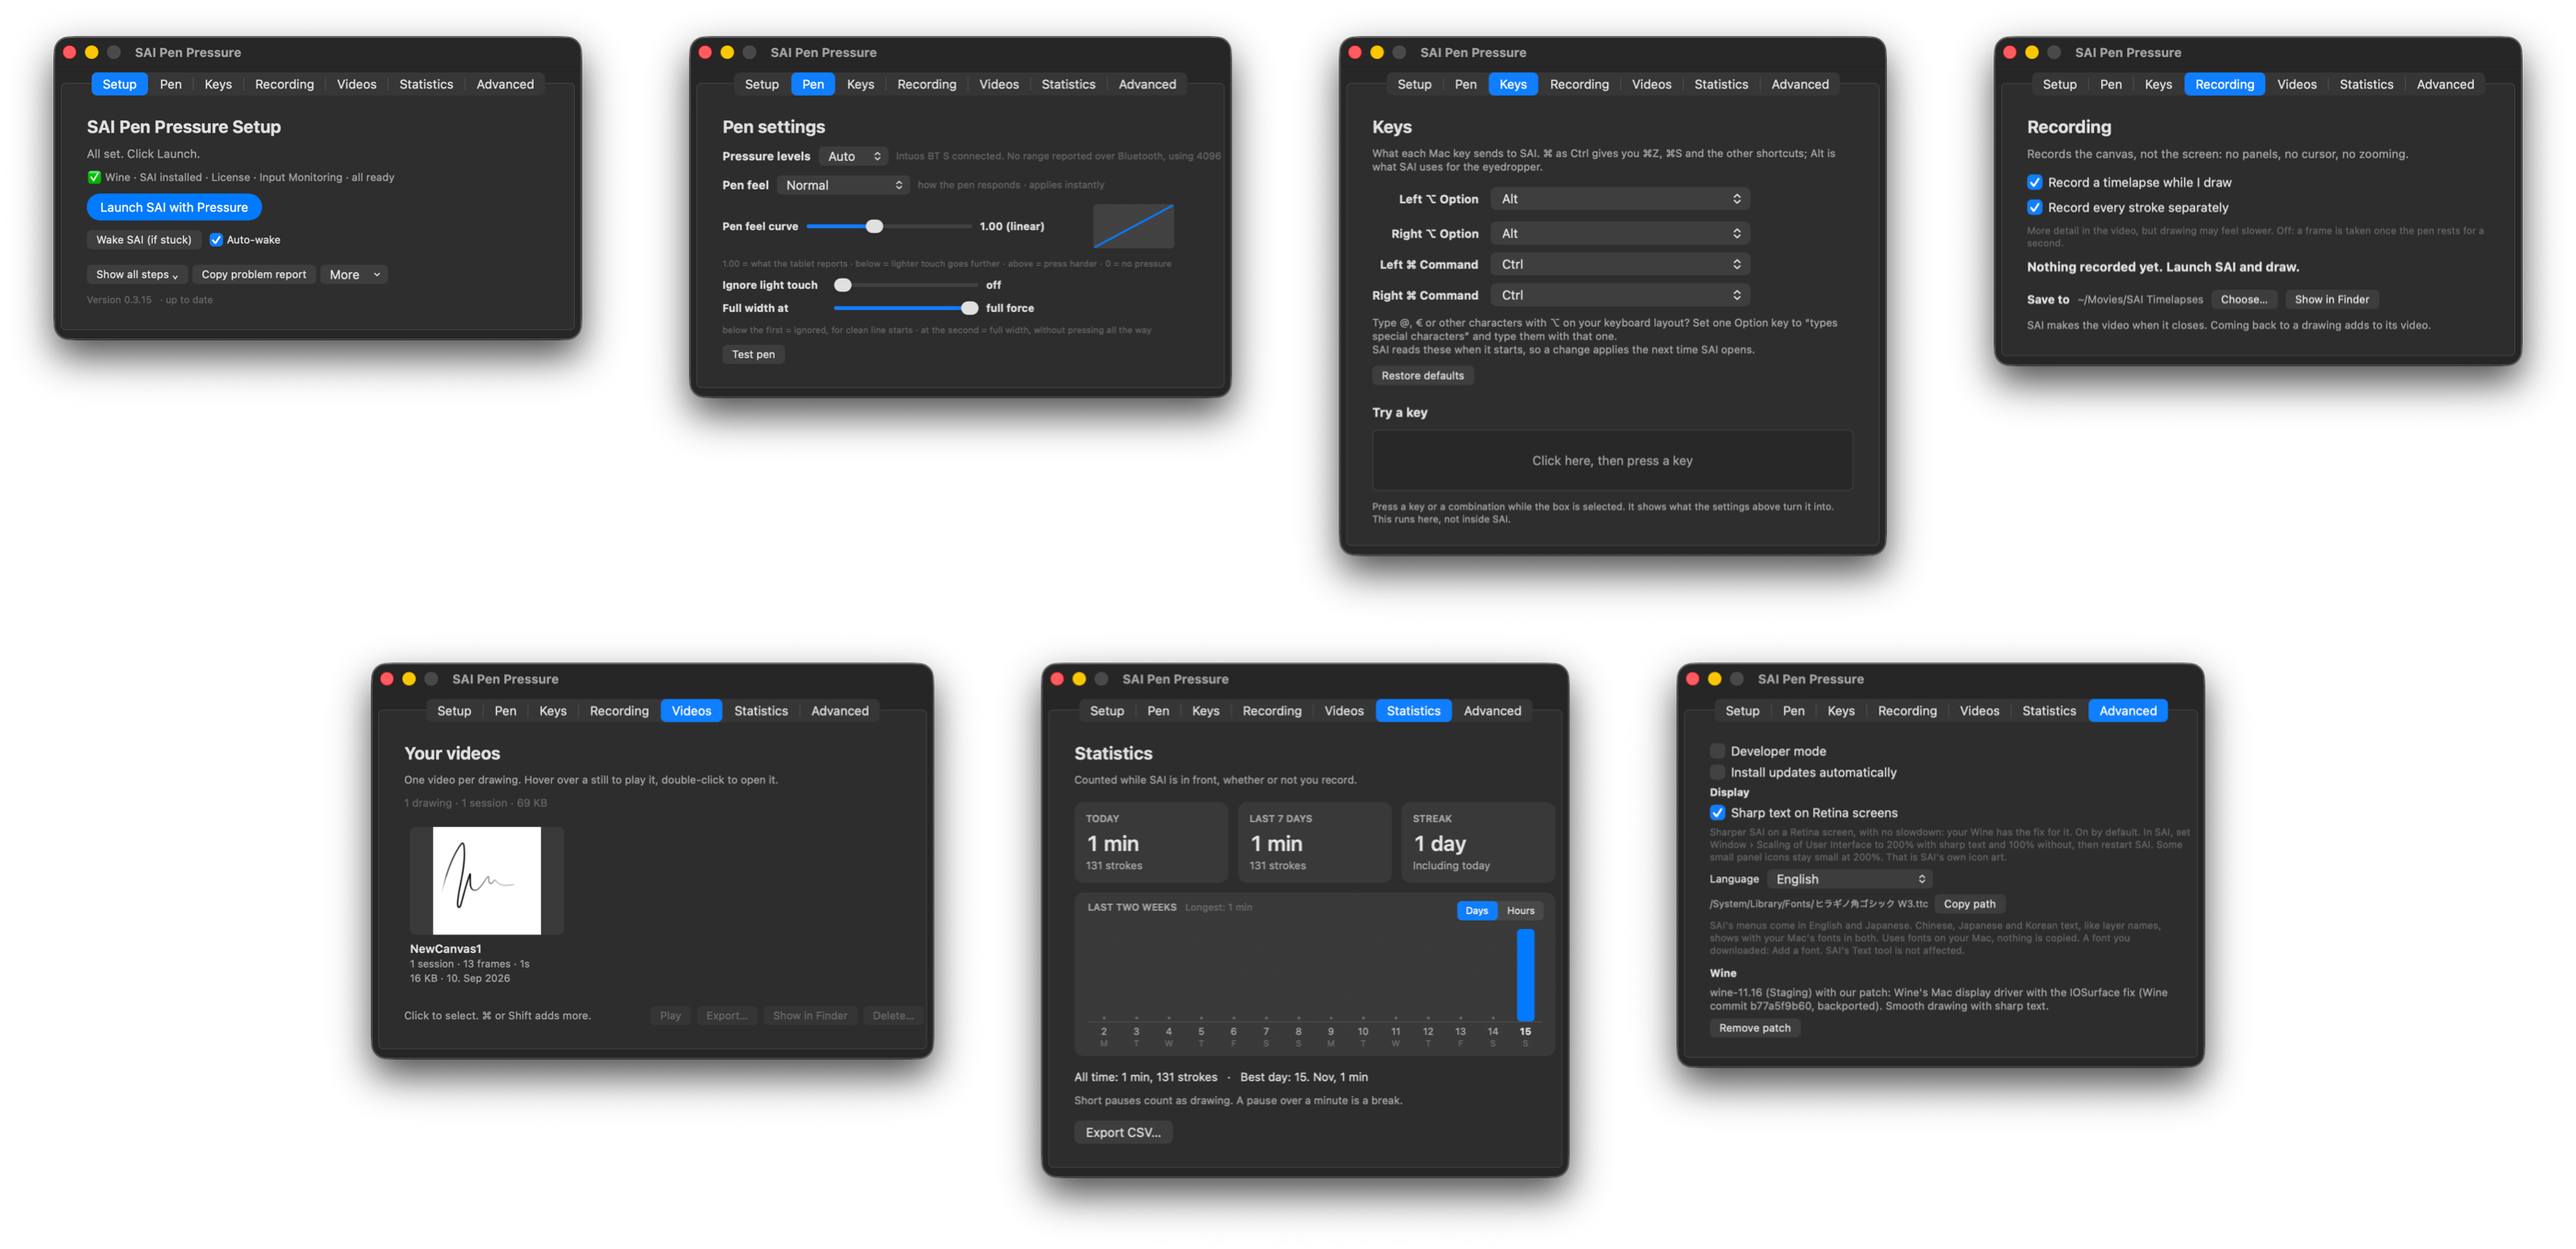
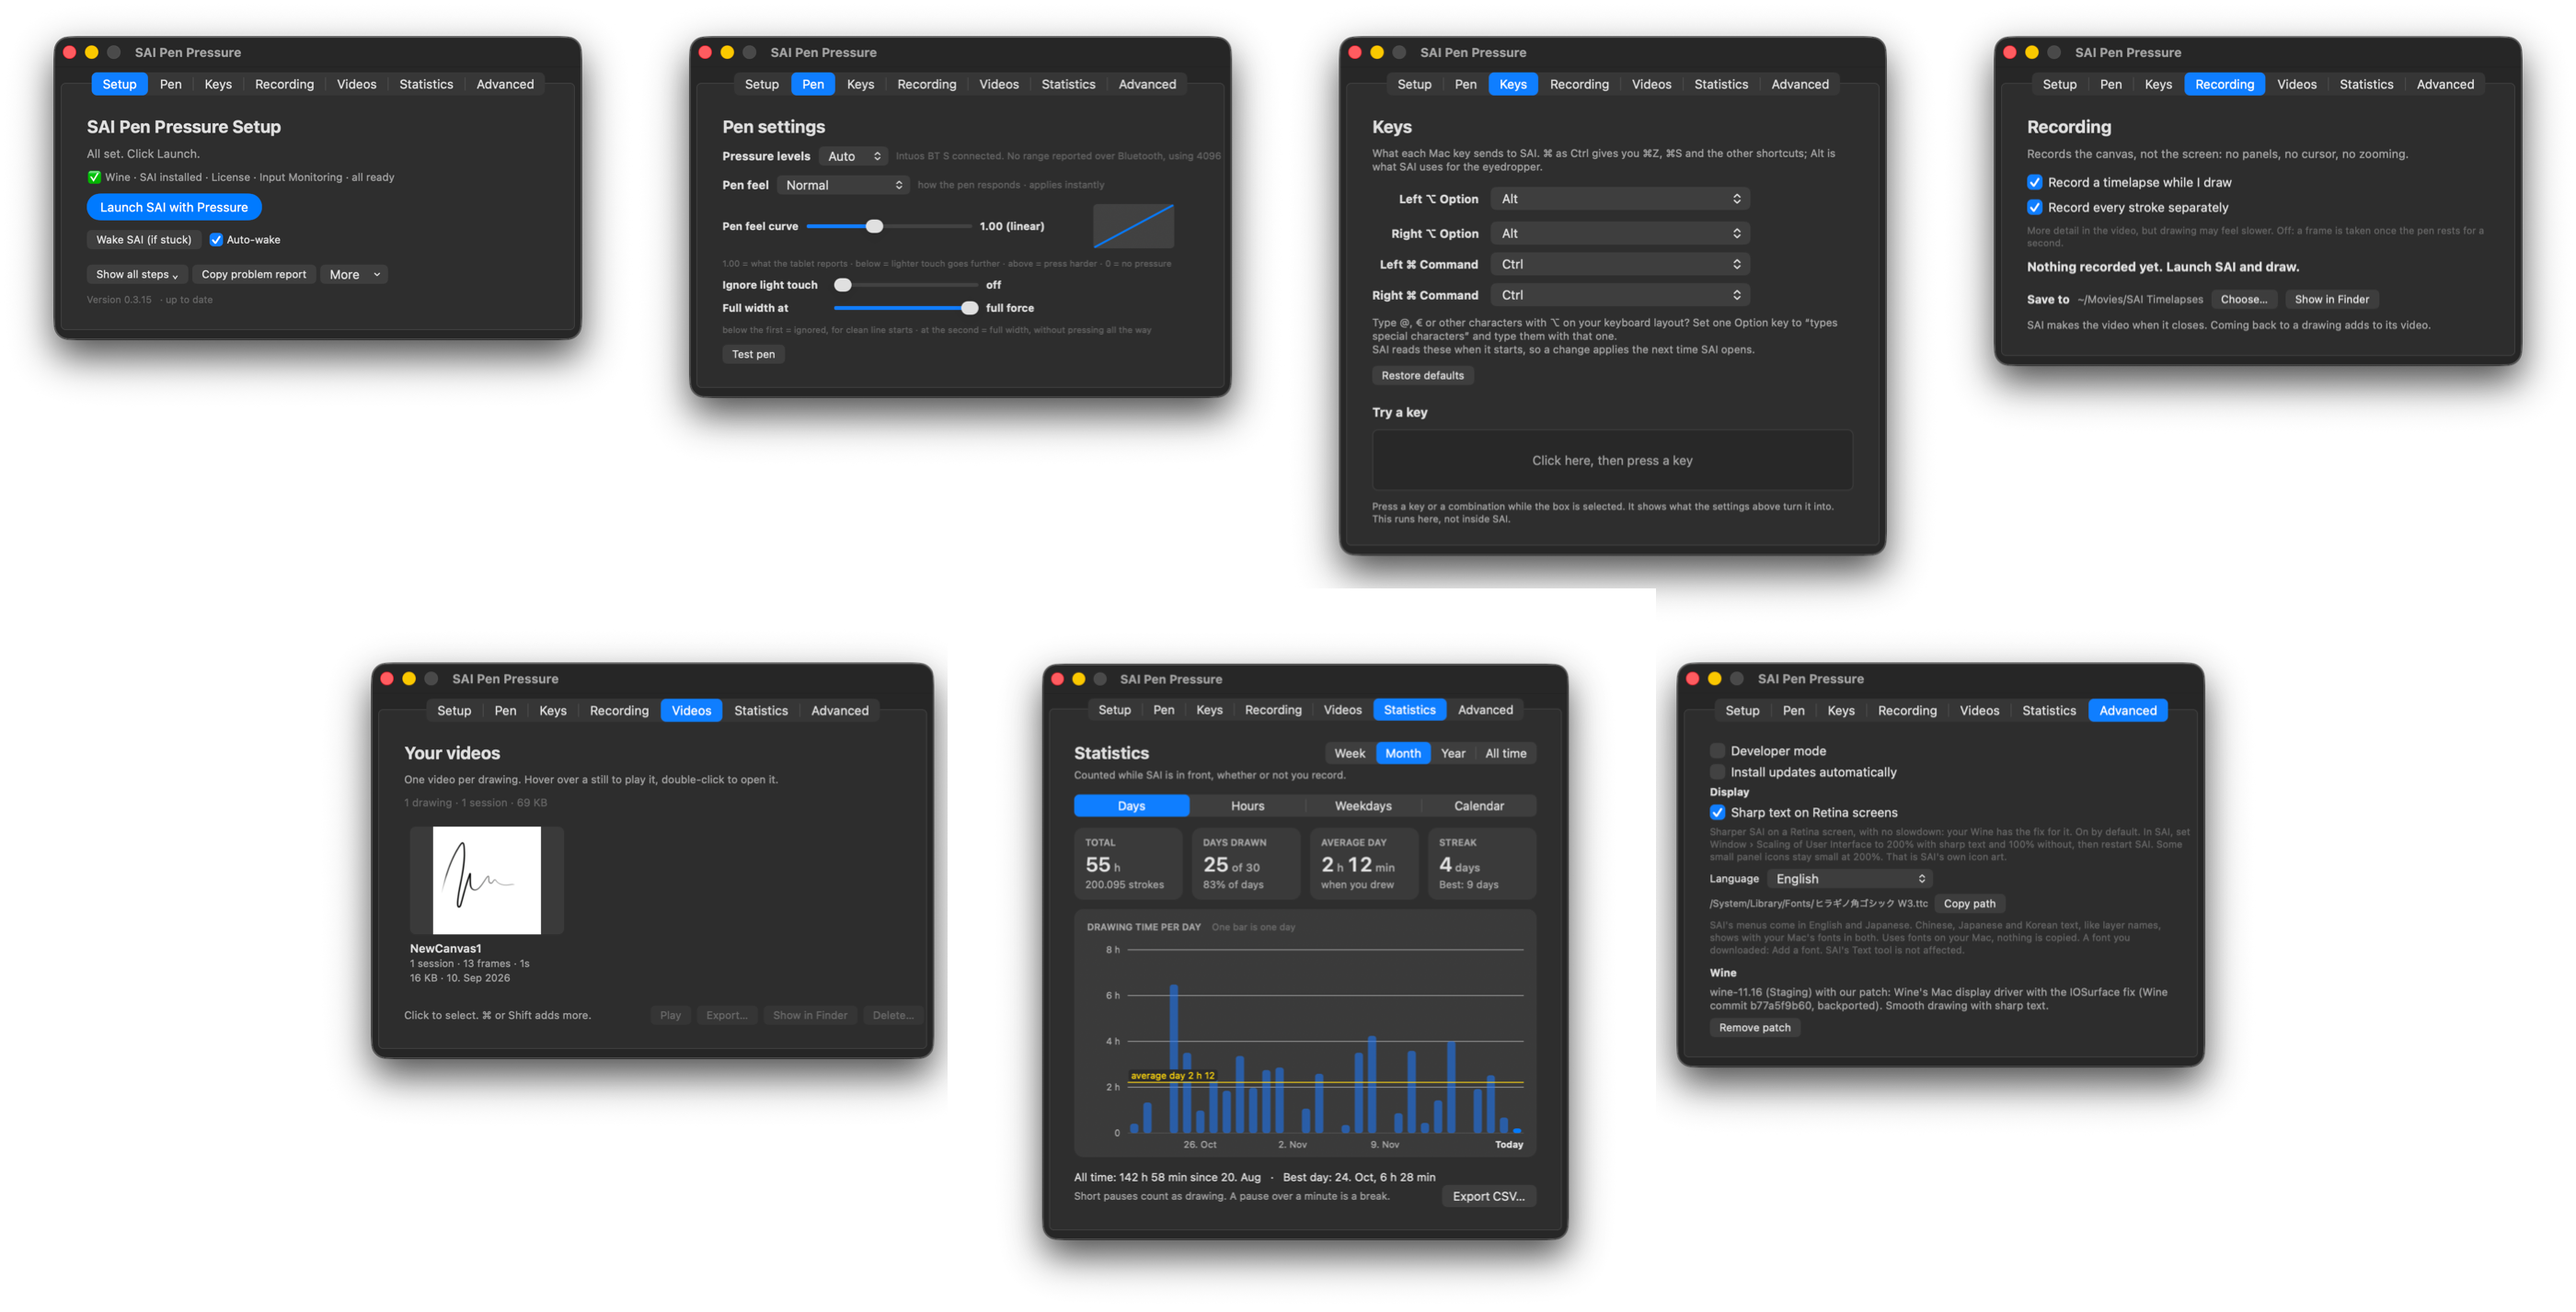
README: the Statistics tab's four views, with screenshots

diff --git a/README.md b/README.md
@@ -131,7 +131,8 @@ worked or not (see [CONTRIBUTING](CONTRIBUTING.md)).
 
 **Drawing statistics**
 
-- **Time and strokes per day**, a streak, and which hours of the day you draw in
+- **Time and strokes** by week, month, year or all time, your average day and your streak
+- **By day, by hour, by weekday, and a calendar** of the whole year
 - Counted from the pen itself, so it works with recording off, and stays on your Mac
 - **Export CSV…** with every day and every hour, for your own charts
 
@@ -268,7 +269,7 @@ what did not work.
 Seven tabs, one window. Each tab is described below.
 
 <p align="center">
-  <a href="docs/assets/screenshots/all-tabs.png"><img src="docs/assets/screenshots/all-tabs.png" alt="All seven tabs. Top row: Setup, with Launch and Wake SAI; Pen, with pressure levels, pen feel presets, the curve and two more feel sliders, and Test pen; Keys, with what each Option and Command key sends; Recording, with the timelapse switches and save folder. Bottom row: Videos, a grid of drawings with a bar for the selection; Statistics, with today, the last 7 days, the streak and a chart of the last two weeks; Advanced, with developer mode, automatic updates, sharp text on Retina screens, the Language menu with the font in use, and the Wine in use." width="100%"></a>
+  <a href="docs/assets/screenshots/all-tabs.png"><img src="docs/assets/screenshots/all-tabs.png" alt="All seven tabs. Top row: Setup, with Launch and Wake SAI; Pen, with pressure levels, pen feel presets, the curve and two more feel sliders, and Test pen; Keys, with what each Option and Command key sends; Recording, with the timelapse switches and save folder. Bottom row: Videos, a grid of drawings with a bar for the selection; Statistics, with the total, days drawn, average day and streak for the month, and a bar for each day; Advanced, with developer mode, automatic updates, sharp text on Retina screens, the Language menu with the font in use, and the Wine in use." width="100%"></a>
 </p>
 
 ### Setup
@@ -353,14 +354,27 @@ It does not edit videos beyond choosing their length.
 
 ### Statistics
 
-<p align="center"><a href="docs/assets/screenshots/statistics.png"><img src="docs/assets/screenshots/statistics.png" alt="The Statistics tab: today, the last 7 days and the streak, a chart of the last two weeks with Days and Hours, all-time totals and Export CSV." width="70%"></a></p>
+<p align="center"><a href="docs/assets/screenshots/statistics.png"><img src="docs/assets/screenshots/statistics.png" alt="The Statistics tab for the last month, Days view: 55 h and 200,095 strokes in total, 25 of 30 days drawn, an average day of 2 h 12 min and a streak of 4 days, best 9. Below, a bar for each day's drawing time with a line at the average day, then all-time totals, the best day and Export CSV." width="70%"></a></p>
 
 How much you draw, counted while SAI is the app in front, whether or not you record.
 
-- **Today**, **Last 7 days** and your **streak** of days in a row, plus all-time totals and your
-  best day.
-- A chart with two views: **Days**, the last two weeks, and **Hours**, which hours of the day you
-  drew in over the last 30 days.
+- Look at the last **Week**, **Month** or **Year**, or **All time**. For each you get the total
+  time and strokes, how many of the days you drew, your **average day**, and your **streak** of
+  days in a row with the best one.
+- Four views:
+  - **Days**: a bar for each day, with a line at your average day.
+  - **Hours**: which hours of the day you draw in, and when you draw most.
+  - **Weekdays**: your average Monday, Tuesday and so on, days off included.
+  - **Calendar**: every day of the year, coloured by how long you drew. Point at a day to see
+    its time, strokes, sessions, and when you started and stopped.
+- All-time totals and your best day, always at the bottom.
+
+<p align="center">
+  <a href="docs/assets/screenshots/statistics-hours.png"><img src="docs/assets/screenshots/statistics-hours.png" alt="The Hours view: drawing time by hour of the day over the last 30 days, mostly in the evening and at night, around 22:00." width="32%"></a>
+  <a href="docs/assets/screenshots/statistics-weekdays.png"><img src="docs/assets/screenshots/statistics-weekdays.png" alt="The Weekdays view: the average drawing time for each day of the week, highest on Saturday with 4 h 11." width="32%"></a>
+  <a href="docs/assets/screenshots/statistics-calendar.png"><img src="docs/assets/screenshots/statistics-calendar.png" alt="The Calendar view: every day of 2026 as a square, coloured from none to 2 h or more, with hours per month, and the day pointed at shown below: Thursday, 19 November, 12 min, 695 strokes, 1 session, 08:44 to 08:56." width="32%"></a>
+</p>
+
 - **Export CSV…** saves every day as a row for a spreadsheet: strokes, drawing and pen time,
   average stroke, strokes per minute, sessions, the longest session, first and last stroke, and
   minutes in each hour.
